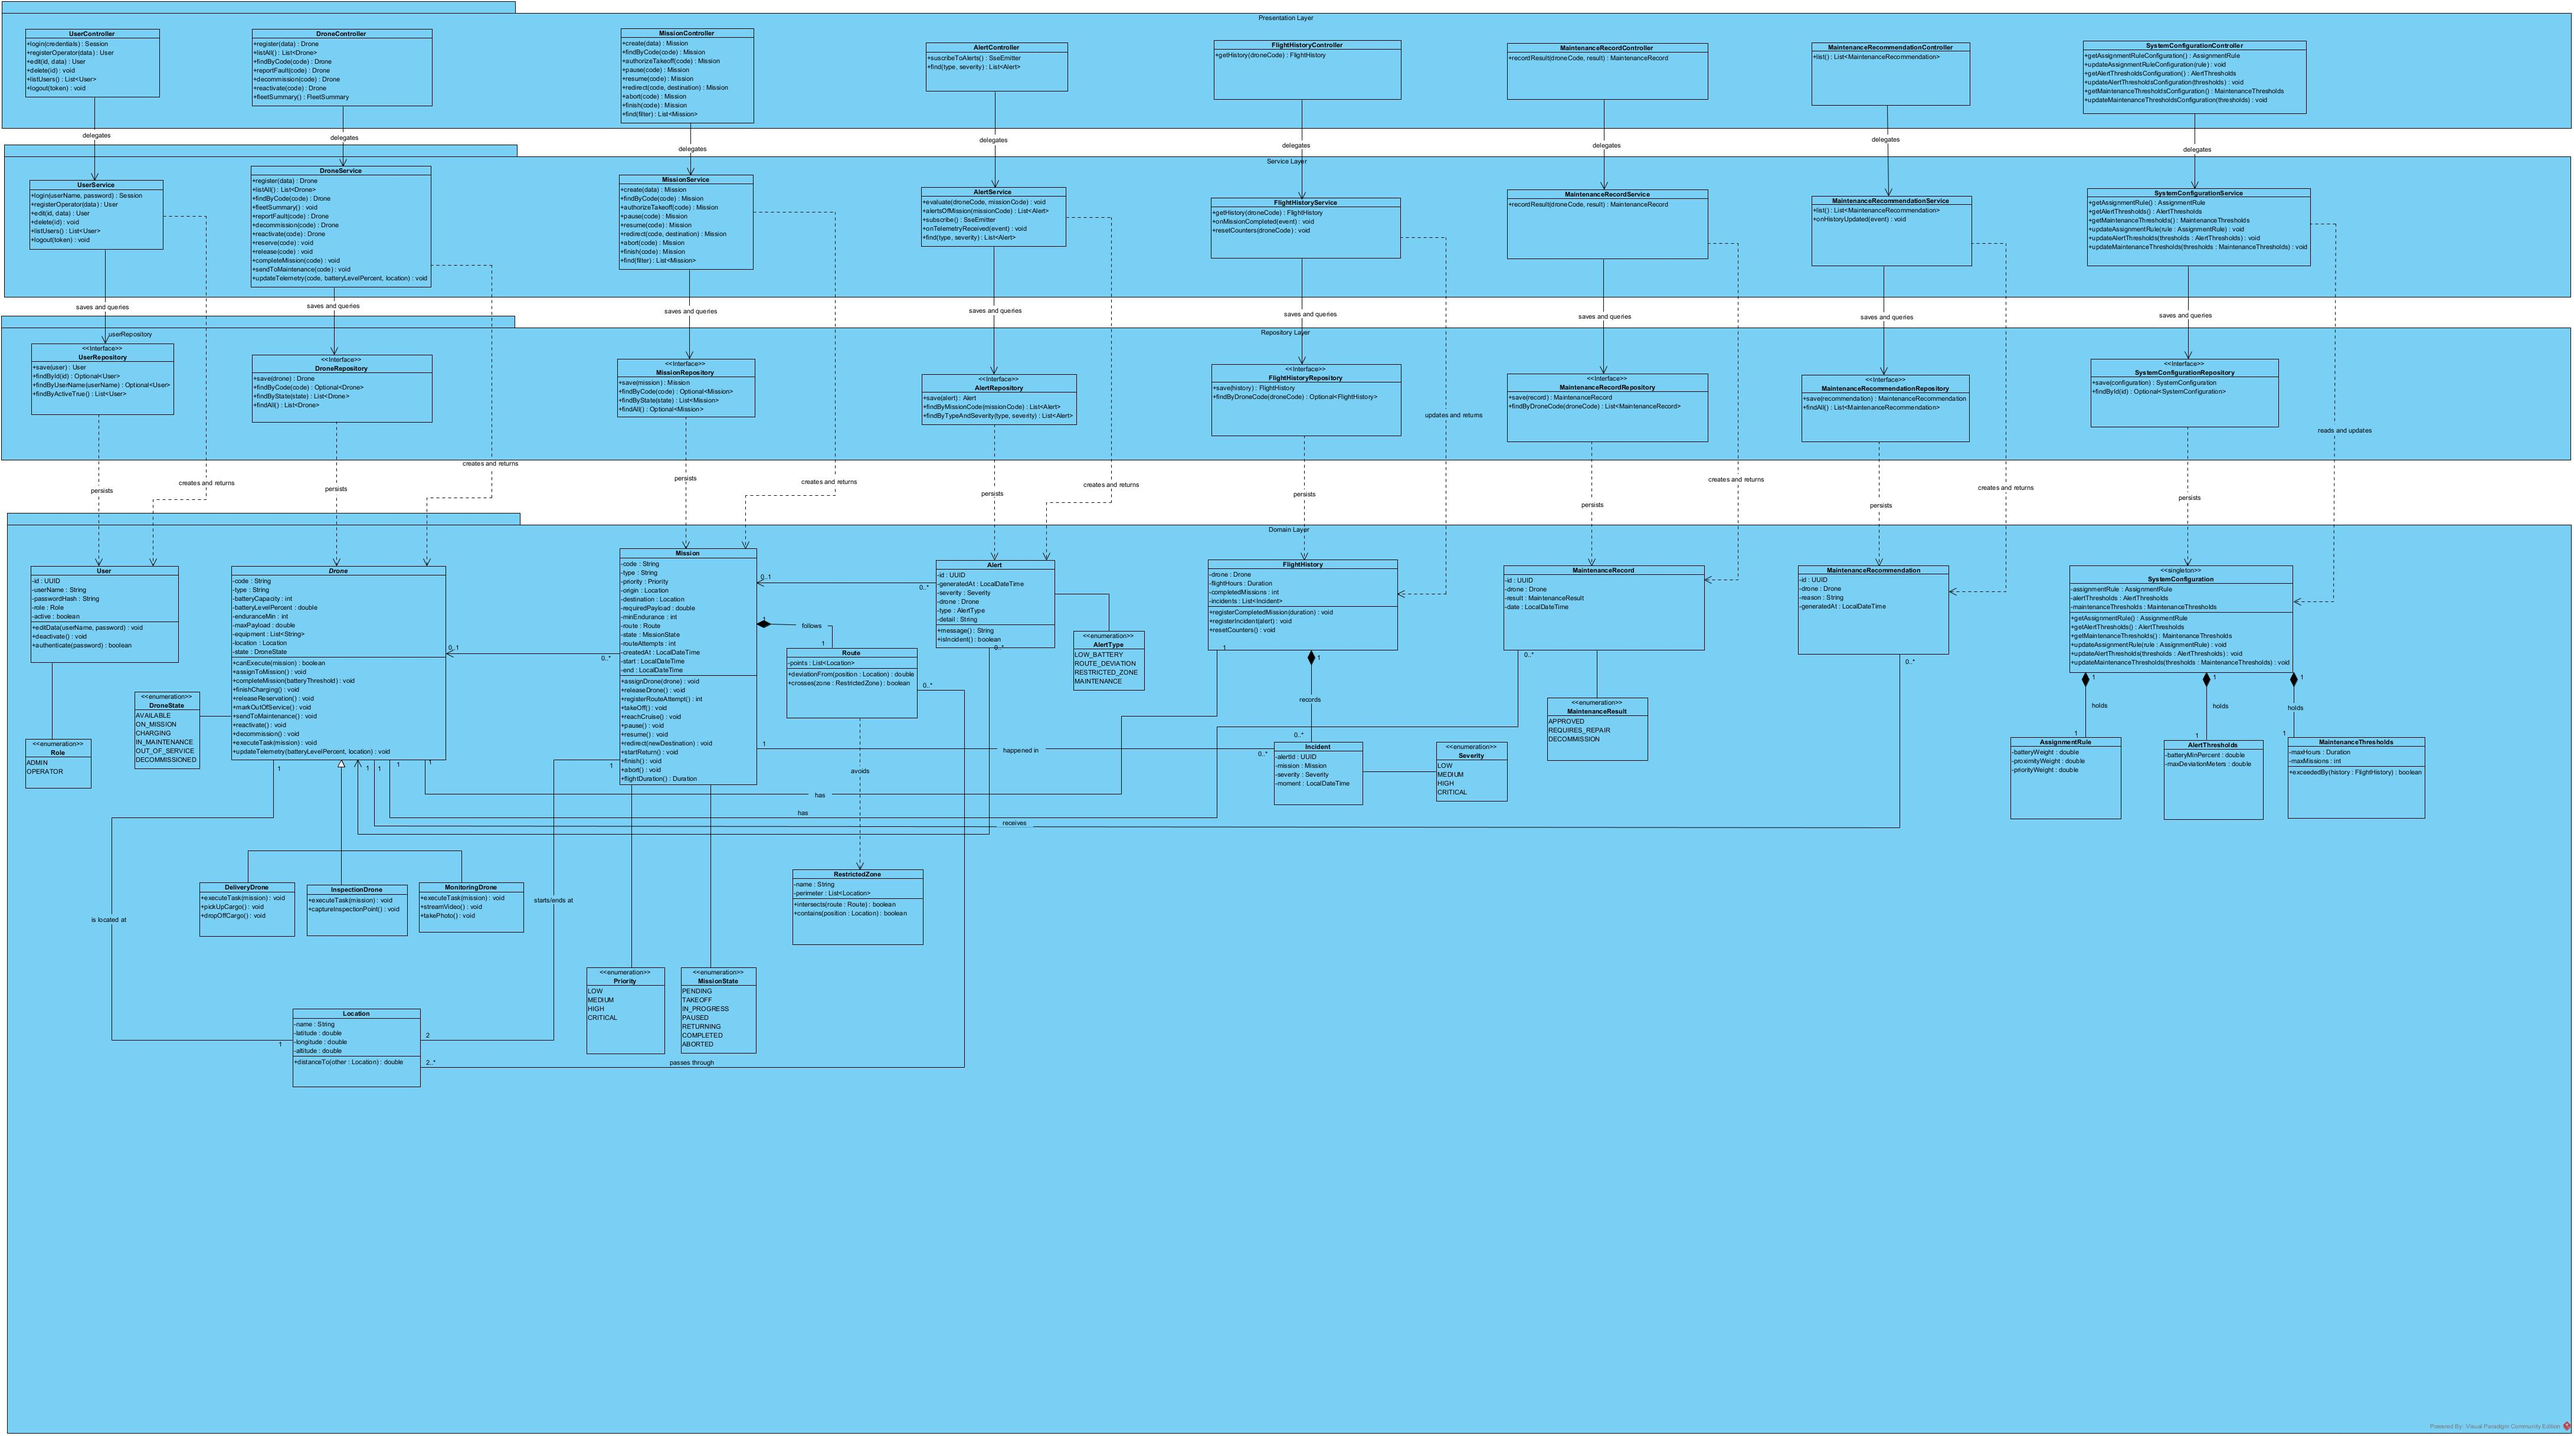
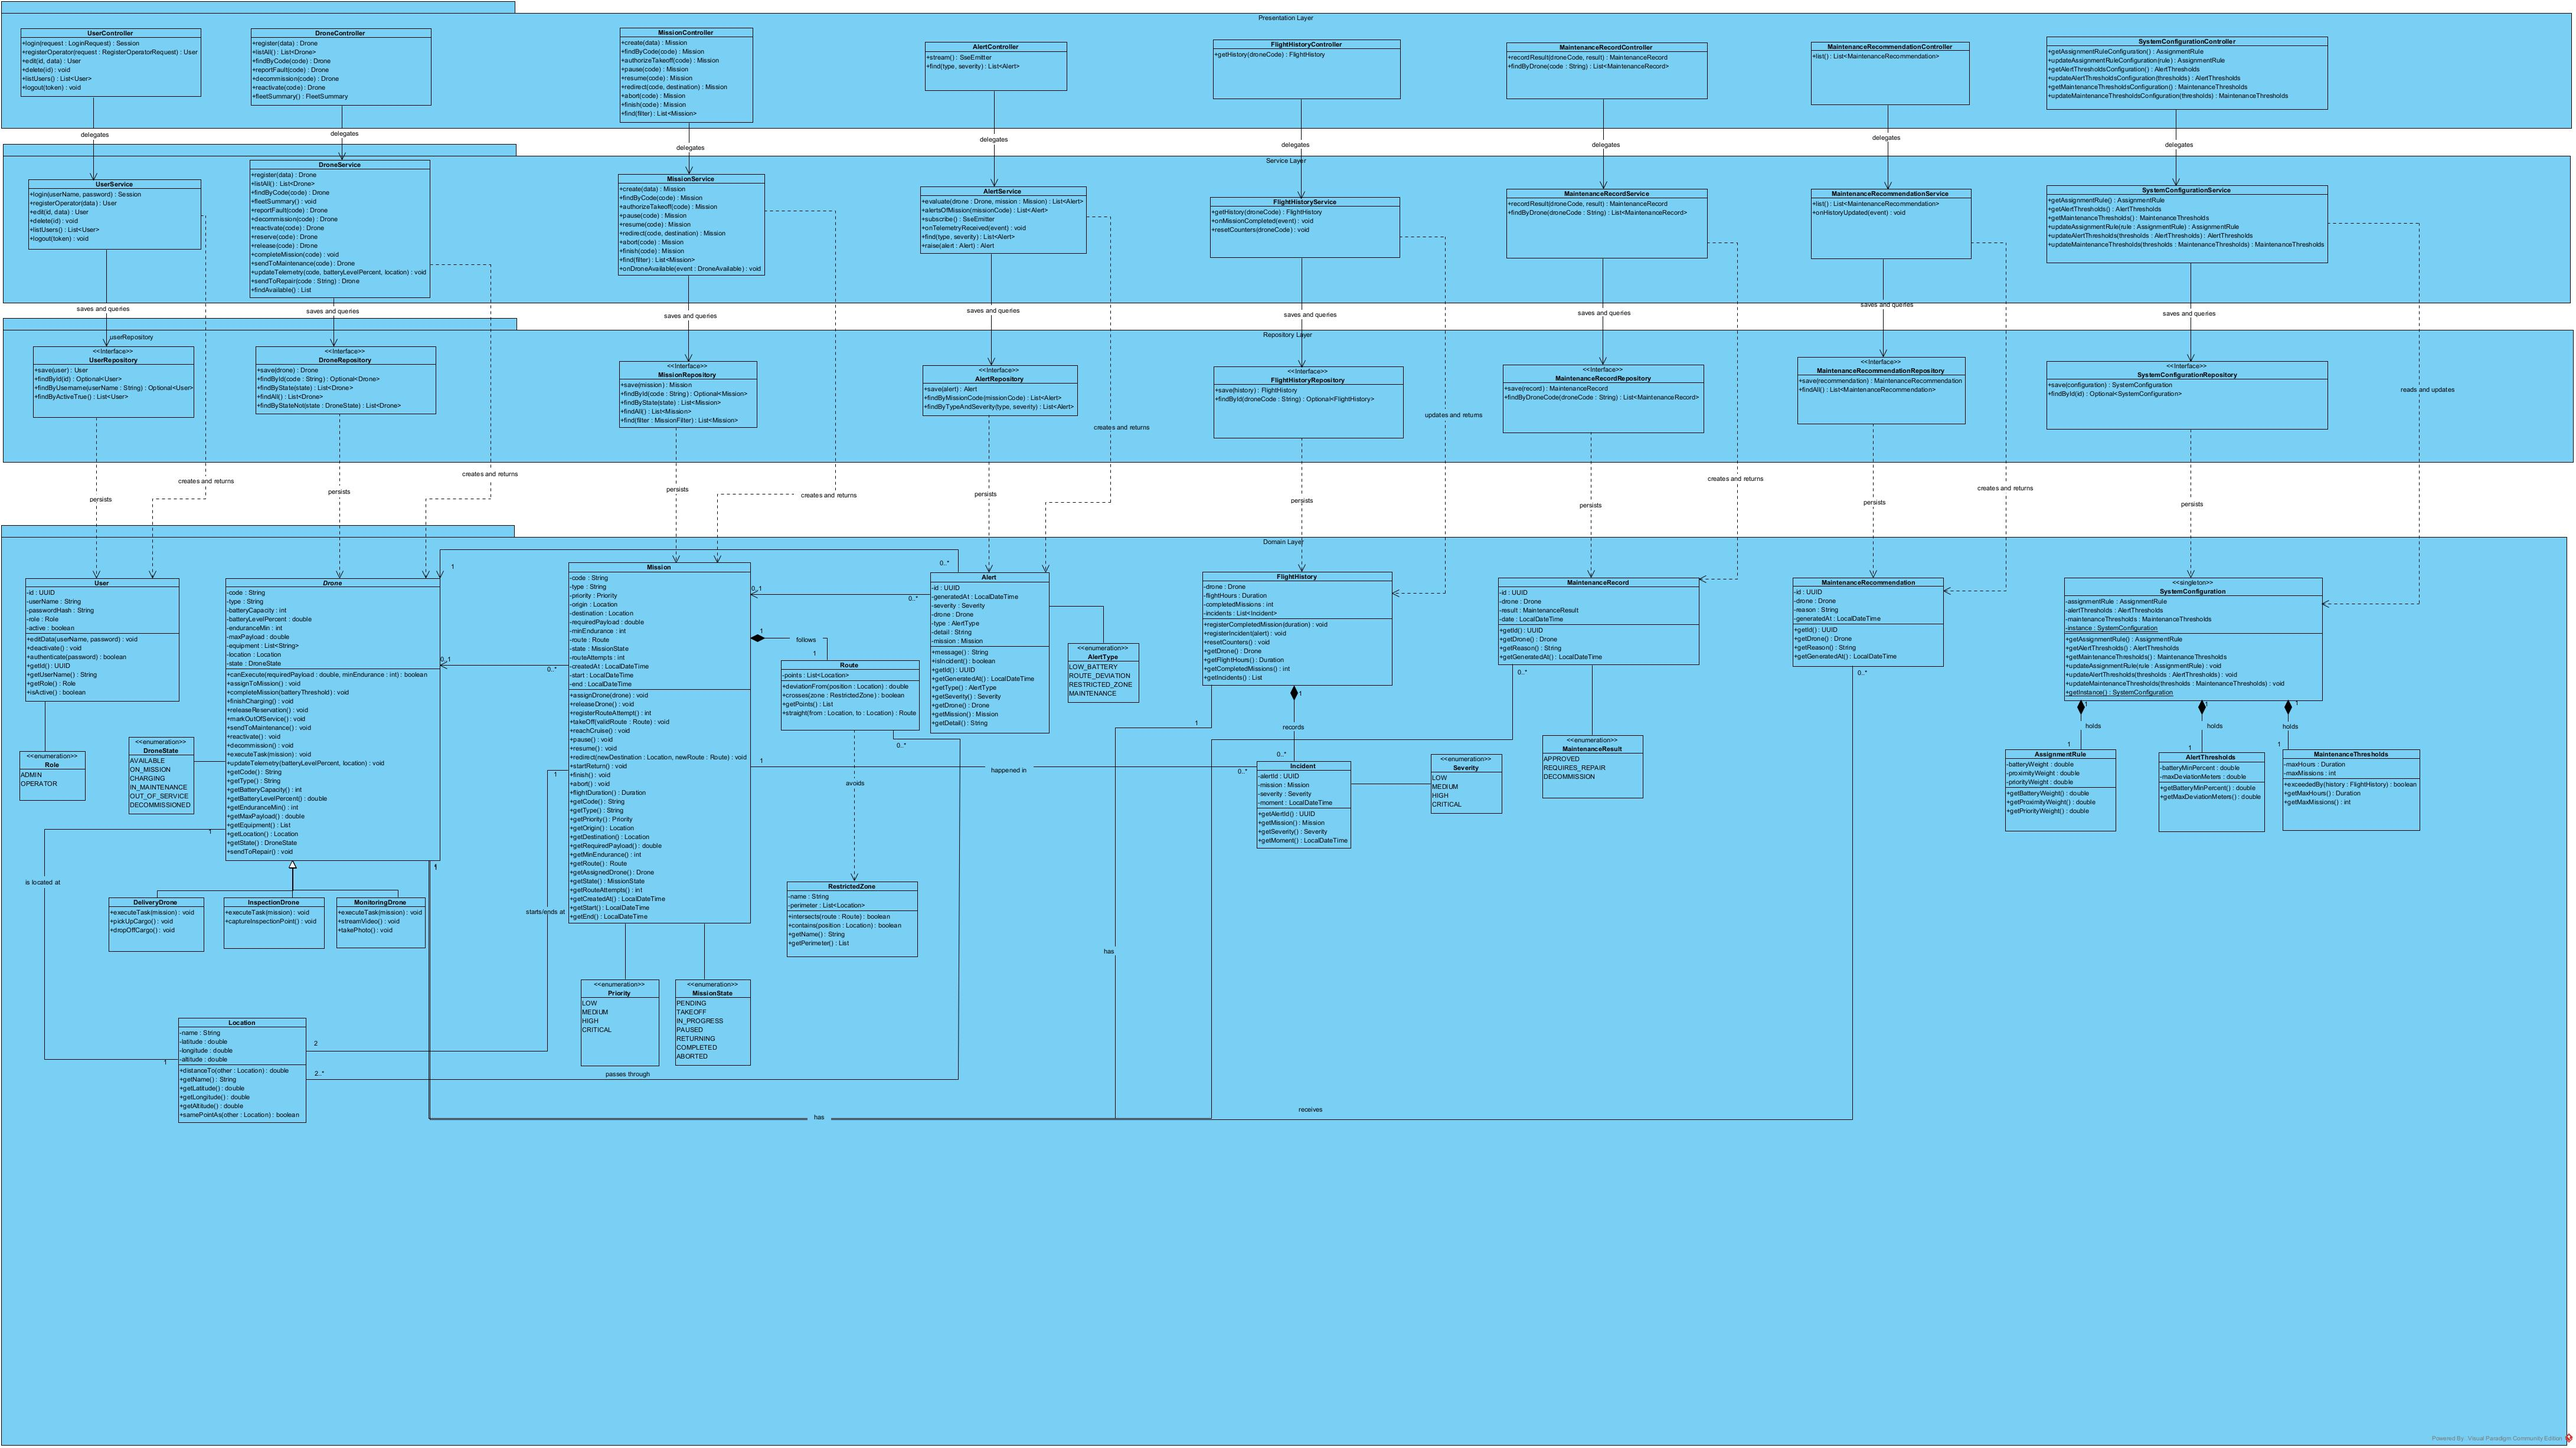
docs: diagramas actualizados y despliegue en Vercel/Render/Atlas en el README

diff --git a/README.md b/README.md
@@ -87,18 +87,16 @@ Dronflow como caja negra, con sus actores y los sistemas externos que le suminis
 
 ## Diagrama de despliegue
 
-![Diagrama de despliegue de Dronflow](docs/vistas/deploymentView.jpg)
+![Diagrama de despliegue de Dronflow](<docs/Deployment Diagram.jpg>)
 
 Muestra **dónde se ejecuta** cada parte del sistema y cómo se comunican:
 
-- **Equipo del usuario** (`«device»`): el administrador u operador abre la aplicación web (`dronflow-frontend`, React + TS) en su navegador. El frontend vive en otro repositorio.
-- **Servidor** (`«device»`): Docker Engine ejecuta tres contenedores en la red interna `dronflow-net`:
-  - **Node 20** ejecuta la aplicación React + TS (imagen construida en el repositorio del frontend) en el puerto 5173.
-  - **JVM 21** ejecuta `dronflow-backend.jar` (Spring Boot) en el puerto 8080: la API REST y el flujo SSE de alertas en tiempo real. Permite CORS desde el origen del frontend.
-  - **MongoDB** guarda la base `dronflow` en el volumen `mongo-data`, para que los datos no se pierdan al reiniciar (RNF-10).
-- **Sistemas externos** (`«node»`): el proveedor de zonas restringidas (protocolo por definir). La telemetría (batería y posición) no es un sistema externo: es interna de Gestión de Flota.
+- **User machine** (`«device»`): el administrador u operador abre `dronflow-frontend` en su navegador web.
+- **Vercel (CDN)**: sirve el build estático de `dronflow-frontend` (React + TS, repositorio aparte). Las peticiones a `/api/*` se reenvían al backend con un *rewrite*, así que el navegador ve un solo origen y no hace falta CORS.
+- **Render Web Service**: un contenedor Docker con JVM 21 ejecuta `dronflow-backend.jar` (Spring Boot): la API REST y el flujo SSE de alertas en tiempo real. El puerto lo asigna Render (`PORT`).
+- **MongoDB Atlas (M0)**: guarda la base `dronflow` (RNF-10).
 
-Rutas de comunicación: navegador → frontend por HTTP (puerto 5173), navegador → backend por HTTP (puerto 8080) y backend → MongoDB con el protocolo de MongoDB (puerto 27017). No se usa nginx.
+Rutas de comunicación: navegador → Vercel por HTTPS 443, Vercel/navegador → Render por HTTPS 443 (REST/JSON + JWT, SSE) y Render → Atlas por `mongodb+srv` con TLS (puerto 27017).
 
 ## Principios GRASP aplicados
 
